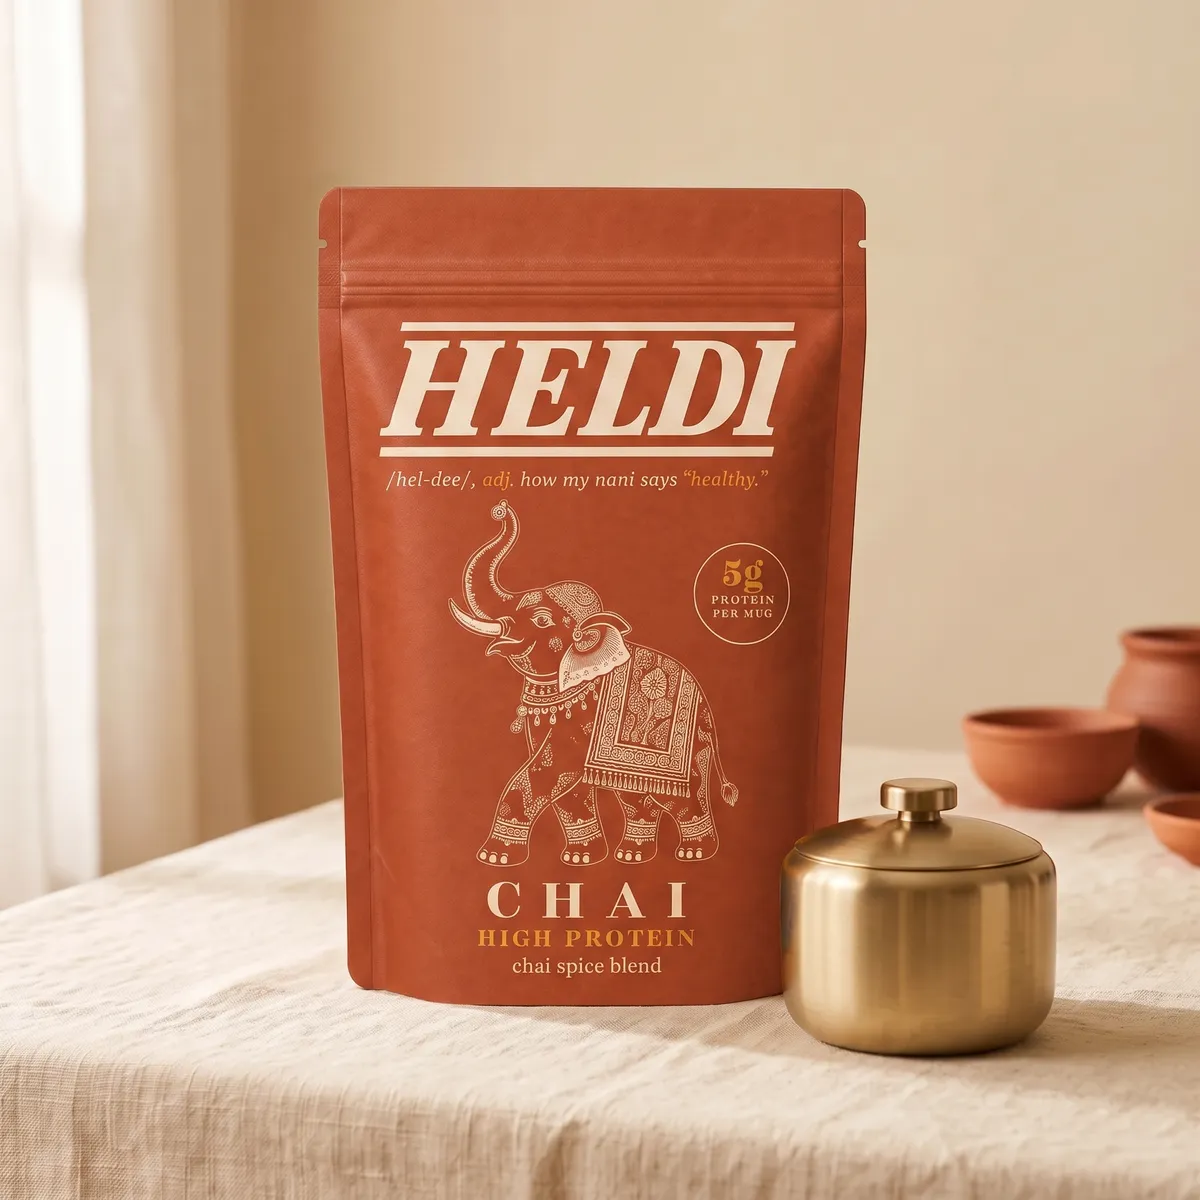
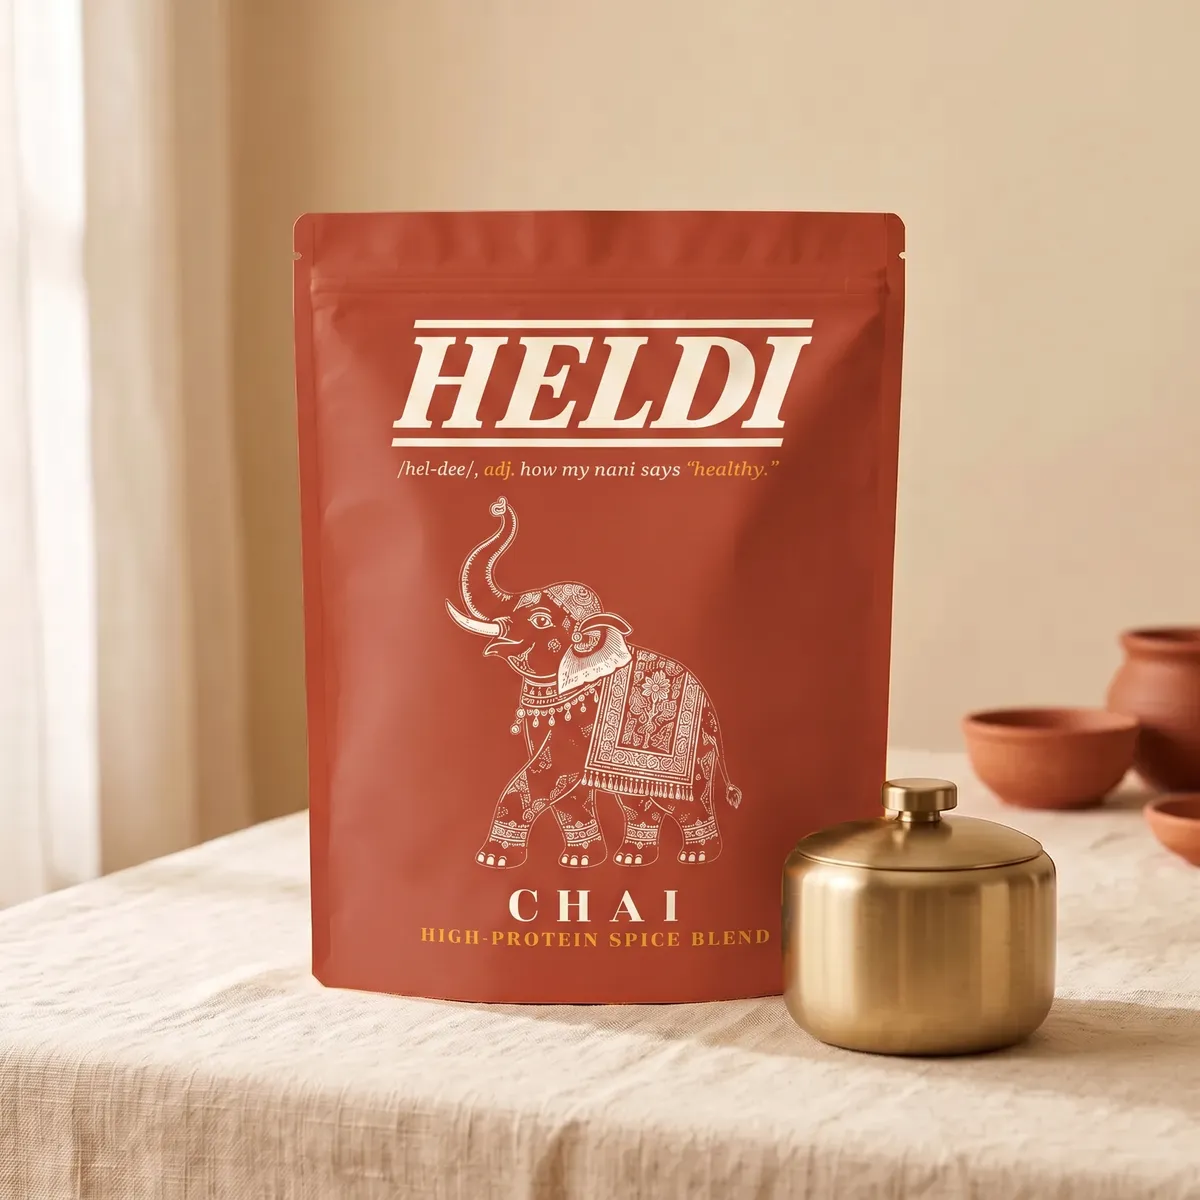
Take the 5g roundel off the Chai shots, and the gluten badge off with it
A review pass found the page arguing with its own photography. The
accordions say Chai's protein figure is not published yet and explain that
at the certified whey purity an 8g spoonful is nearer 4.7g than 5g. Every
gallery shot then showed a pouch printed "5g PROTEIN PER MUG", above the
fold, and those same four URLs go into the schema.org Product.image array.

Regenerated all four shots and the share-card art from the print artwork
with the roundel painted out, so the pack in the pictures says what the
page says. The print files still carry it; re-rendering those is already
in NEXT_STEPS §1b, gated on the serving decision.

Also from the review:

- Dropped the "Gluten free" badge. It is a legally defined claim (under
  20mg/kg, Reg 828/2014), Chai's spices come from a different supplier to
  Khana's, and §1b lists the test as outstanding. Shipping the badge while
  the same commit says the evidence is missing was indefensible.
- Removed the /ways-to-use and /inside-the-pouch links from Chai's
  accordions. Both pages are Khana's: /ways-to-use states "a heaped
  tablespoon adds 10g of protein" (Khana's 12g spoonful) and has no drinks
  method; /inside-the-pouch calls Khana's four ingredients the whole label.
  The /truth link keeps its "which uses Khana's numbers" caveat.
- Fixed the live-mode line, which claimed Khana ships in the pouch
  pictured on the Chai page. It does not; that is the navy Khana pouch.
[…]

Changed region(s): [[0.2467, 0.1542, 0.7708, 0.8633], [0.0, 0.8633, 0.1233, 1.0]]

diff --git a/components/shop/chai-data.ts b/components/shop/chai-data.ts
@@ -61,10 +61,13 @@ export const CHAI_ALLERGENS = "Contains milk (whey and casein).";
 export const CHAI_LEGAL_NAME =
   "Whey protein and casein blend with chai spices and coconut sugar. Food supplement.";
 
-/** Ingredient names in the order the label prints them, with no percentages.
- *  The percentages and the final order are what the two formulations
- *  disagree about; the ingredients themselves are common to both apart from
- *  black pepper, which no label carries. */
+/** The ingredients, largest first, as a plain-English list. This is NOT the
+ *  legal declaration order: that order is one of the things the two
+ *  formulations disagree about (the pack label puts coconut sugar second,
+ *  ahead of the casein; the COGS blend puts casein second and cuts the sugar
+ *  to 10%). The ingredients themselves are common to both apart from black
+ *  pepper, which no label carries. The declaration, with percentages and a
+ *  settled order, publishes with the nutrition table. */
 export const CHAI_INGREDIENT_NAMES = [
   "whey protein isolate",
   "micellar casein",
@@ -105,17 +108,23 @@ export type ChaiPill = {
   height: number;
 };
 
-// Khana's six badges are not reusable here and the difference matters.
-// "No added sugar" is false: Chai is 10 to 15% coconut sugar. "98%
-// lactose-free" is substantiated against Khana's whey certificate at a 12g
-// spoonful and says nothing about a blend carrying micellar casein. "All
-// natural" already draws ASA scrutiny on the pack. The pack's "ORGANIC
-// SPICES" strip is worse: organic is a certified term, Heldi holds no
-// certification, and no organic ground clove exists to buy, so it must not
-// appear on the site at all.
+// Khana's six badges are not reusable here and the difference matters. Every
+// one dropped is dropped because Chai cannot stand it up:
+//  - "No added sugar" is simply false: Chai is 10 to 15% coconut sugar.
+//  - "98% lactose-free" is substantiated against Khana's whey certificate at
+//    a 12g spoonful and says nothing about a blend carrying micellar casein.
+//  - "All natural" already draws ASA scrutiny on the pack.
+//  - "Gluten free" is a legally defined claim (under 20mg/kg, Reg 828/2014).
+//    Chai's spices come from a different supplier to Khana's and no gluten
+//    result exists for this blend, so the badge waits for the test.
+//  - The pack's "ORGANIC SPICES" strip is worse than any of them: organic is
+//    a certified term, Heldi holds no certification, and no organic ground
+//    clove exists to buy, so it must not appear on the site at all.
+// "High in protein" is the one nutrition claim that holds under every
+// candidate blend (see the header note), and vegetarian is a fact about the
+// rennet, not a test result.
 export const CHAI_PILLS: ChaiPill[] = [
   { icon: "/images/pouch-badges/high-protein.png", label: "High protein", width: 256, height: 256 },
-  { icon: "/images/pouch-badges/gluten-free.png", label: "Gluten free", width: 328, height: 225 },
   { icon: "/images/pouch-badges/vegetarian.png", label: "Vegetarian", width: 286, height: 367 }
 ];
 

diff --git a/components/shop/chai-buy-box.tsx b/components/shop/chai-buy-box.tsx
@@ -109,7 +109,9 @@ export function ChaiBuyBox() {
         <p className="pdp__group-label">
           HOW IT GOES IN: <strong>THREE STEPS</strong>
         </p>
-        <ol className="pdp__method">
+        {/* role="list" because list-style:none drops list semantics in
+            Safari/VoiceOver, and the step numbers are CSS counters. */}
+        <ol className="pdp__method" role="list">
           {CHAI_METHOD.map((step) => (
             <li key={step.title} className="pdp__method-step">
               <span className="pdp__method-title">{step.title}</span>
@@ -161,7 +163,7 @@ export function ChaiBuyBox() {
 
         <p className="pdp__promise">
           {mode === "live"
-            ? "Chai is not in the shop yet. Khana is, and the pouch it ships in is the one on this page."
+            ? "Chai is not in the shop yet. Khana is, and it is the same spoonful for the food rather than the drink."
             : `Chai comes after Khana. The waitlist hears first, with ${WAITLIST_OFFER.percent}% off the first order.`}
         </p>
 

diff --git a/components/shop/chai-accordions.tsx b/components/shop/chai-accordions.tsx
@@ -32,11 +32,8 @@ const ACCORDION_ITEMS: PdpAccordionItem[] = [
           The blend is still in trials, and the ingredients list on a food
           supplement is a legal declaration rather than a description, so it
           publishes when the finished blend has been analysed and not before.{" "}
-          <a href="/inside-the-pouch">
-            See where every ingredient comes from
-          </a>
-          , or <a href="/our-story">read our story</a> for why we built it
-          this way.
+          <a href="/our-story">Read our story</a> for why we built it this
+          way.
         </p>
       </>
     )
@@ -54,8 +51,7 @@ const ACCORDION_ITEMS: PdpAccordionItem[] = [
         </p>
         <p>
           It goes into more than chai. Tea, coffee, hot chocolate, warm milk.
-          Anything you would run back down a platform for.{" "}
-          <a href="/ways-to-use">See every way to use Heldi</a>.
+          Anything you would run back down a platform for.
         </p>
       </>
     )

diff --git a/app/globals.css b/app/globals.css
@@ -7036,8 +7036,13 @@ a.living-card__tag:hover {
 }
 
 @media (min-width: 900px) {
+  /* auto-fit rather than a fixed 3, because the buy column is only ~376px
+     just over the breakpoint and three cards there wrap "Stir in a heaped
+     tablespoon" onto five lines. It falls to two cards in the 900-1050 band
+     and settles at three from ~1100px, where they fit. Same trick as
+     .option-grid, and it adds no second structural breakpoint. */
   .pdp__method {
-    grid-template-columns: repeat(3, 1fr);
+    grid-template-columns: repeat(auto-fit, minmax(9.5rem, 1fr));
     gap: 0.75rem;
   }
 

diff --git a/NEXT_STEPS.md b/NEXT_STEPS.md
@@ -62,11 +62,12 @@ provisional but uncontradicted, which is why the site publishes those.
 - [ ] **Is Chai in the next run at all, and is Dahi ahead of it?** HeldiPM's newest decision log (`context/product-gates.md`) still carries the Gate-2 line *"Chai spices not ordered this run"* and the Gate-3 line *"Chai market potentially larger, parked for behaviour not demand"*, and `data/project-status.json` names a two-SKU launch of **Khana and Dahi**, with Chai deferred. The August work resumed Chai development (testing day 16 Aug, print round 13 on 19 Aug, COGS 25 Aug) but no gate entry un-parks it, and the website has never heard of Dahi. The page as shipped does not depend on this answer. Every item below does
 - [ ] **Which formulation.** Two are live and they disagree. The pack artwork (HeldiPM `design/pouch-v2/CHAI-NUTRITION.md`, 18 Aug 2026) is 53.9% whey isolate / 13.5% micellar casein / 15% coconut sugar with a cardamom-led spice block. The COGS model (`lib/cogs/constants.ts`, `chai-current`, 25 Aug 2026) is 53.7% / 18.2% / 10% with a ginger-led block plus **2% black pepper**, which appears on no label anywhere. The print-ready PDFs on disk encode the older one. Nothing else on this list can be answered until one of them wins
 - [ ] **Net weight and mugs per pouch.** The print files say 100g and "around 12 servings"; the COGS model says a 250g pouch; HeldiPM's own pouch-v2 README calls 100g *"a placeholder for the sample"* and asks for a filled pouch to be weighed. The site currently states 100g / 12 mugs, from `CHAI_POUCH_GRAMS` and `CHAI_MUGS_PER_POUCH` in `components/shop/chai-data.ts`, because that is the pack in the product photography. Weigh a filled pouch and change those two constants together
-- [ ] **The serving size, and whether "5g per mug" survives.** Every protein number hangs off the whey purity, and there are three figures in play. The pack table assumes 93.5% because that is what Khana's table implies. The Arla certificate of analysis behind `lib/cogs/constants.ts` says **87.3% as-is**, and at 87.3% an 8g spoonful of the pack formulation gives about **4.7g**, below even the 4.9g failure case the nutrition spec's own sensitivity note describes. If the certificate wins, the serving moves to 9g or the claim softens, and **the front-of-pack roundel, the back-of-pack claims strip, the print PDFs and the five product shots in `public/images/shop/chai-*.webp` all have to be re-rendered**, because every one of them shows "5g PROTEIN PER MUG"
+- [ ] **The serving size, and whether "5g per mug" survives.** Every protein number hangs off the whey purity, and there are three figures in play. The pack table assumes 93.5% because that is what Khana's table implies. The Arla certificate of analysis behind `lib/cogs/constants.ts` says **87.3% as-is**, and at 87.3% an 8g spoonful of the pack formulation gives about **4.7g**, below even the 4.9g failure case the nutrition spec's own sensitivity note describes. If the certificate wins, the serving moves to 9g or the claim softens, and **the front-of-pack roundel, the back-of-pack claims strip and the print PDFs all have to be re-rendered**, because every one of them shows "5g PROTEIN PER MUG". The four site shots in `public/images/shop/chai-*.webp` already have the roundel removed, so they do not publish a figure the page withholds; they will need re-rendering again if the roundel comes back with a settled number
 - [ ] **The price ladder.** There is no agreed Chai price anywhere. `lib/cogs/constants.ts` carries £35 / £65 / £95 flagged `TIER_PRICES_PROVISIONAL.chai = true` and says outright *"Chai has no agreed pricing of its own and mirrors Khana for now"*; the only Chai price ever named is a **£20 entry point** for the 100g pouch in `data/project-status.json`, and it is recorded as parked. Note the COGS Khana ladder (£35/£65/£95) does not match the locked one in `lib/pricing.ts` (£35/£70/£105), so "mirror Khana" would mirror an error
 - [ ] **Does Chai get a Sample?** Khana's Sample is a real £5 SKU with its own variant, servings constant and gallery slot. Chai has no sample SKU, price or fill anywhere. A sachet shot is already rendered and sitting in the gitignored `public/images/originals/pre-webp/shop/chai-sample.png` if the answer is yes
 - [ ] **Do Chai pouches earn the free jar and the masala dabba, the 20% waitlist code, and the 10% family codes?** Today they would silently earn **nothing**: `khanaPouchCount`, `giftingEligiblePenceForLines` and `waitlistEligiblePenceForLines` in `lib/commerce/catalog.ts` all key off Khana's SKUs
 - [ ] **"Organic".** The printed back-of-pack strip says `ORGANIC SPICES`. Organic is a certified term in the UK, Heldi holds no certification, and `lib/cogs/constants.ts` records that no organic ground clove exists to buy, so one Chai spice cannot be organic even in principle. It is deliberately absent from the website; it has to come off the pack or the certification has to happen
+- [ ] **"England" or "the UK".** Khana's "What's inside" accordion says the blend is *"Blended and packed in England"*; the Chai pack footer and the Chai page both say *"the UK"*. Both can be true and the UK is the safer superset, but two products should not describe the same co-packer two ways. Pick one and make Khana match
 - [ ] **The casein line in Our story.** `app/our-story/page.tsx` lists casein in the trial menu as *"turned dal to cement"*, and Chai is a whey-and-casein blend. True of dal and not of hot milk, but a reader on both pages will notice. Decide whether that line gains a clause
 
 ### Product facts the site cannot publish until the blend is signed off
@@ -80,7 +81,7 @@ Getting them wrong on pack is a false declaration under FIC Regulation
 - [ ] The **ingredients list with percentages**, in final descending order. The names are already on the page; only the numbers and the order are withheld
 - [ ] The **protein per serving**, and with it a Chai equivalent of the "10 vs 10.4" rounding rule in BRAND.md §5
 - [ ] The **amino acid profile**. None exists in either repo. Without it the Chai page cannot carry Khana's "Nutrition & amino acids" modal or its complete-protein claim
-- [ ] **Gluten free**: the site shows the badge, on the same footing as Khana's. It is a legally defined claim (under 20ppm) and Chai's spices come from a different supplier, so it needs its own test result
+- [ ] **A gluten result.** "Gluten free" is a legally defined claim (under 20mg/kg, Reg 828/2014) and Chai's spices come from a different supplier to Khana's, so the badge is deliberately absent from the Chai page until this blend is tested. Add it to `CHAI_PILLS` in `components/shop/chai-data.ts` when the result lands
 - [ ] **A lactose figure.** Khana's "98% lactose-free" is substantiated against Khana's whey certificate at a 12g spoonful and says nothing about a blend carrying micellar casein. The Chai page deliberately declines to borrow it
 - [ ] **Shelf life.** Khana publishes an 18-month best-before in two places; HeldiPM's Gate 4 records *"shelf-life 9-12 months usable"* and Chai has no stability data at all. The Chai page says "a best-before on the base" with no number until it does
 
@@ -96,19 +97,19 @@ Nothing here is needed for the page as it stands. It is the list of what the
 - [ ] Add the `AggregateOffer` block to the Chai product schema in `app/shop/chai/page.tsx`, in the same `COMMERCE_MODE === "live"` shape `/shop` uses
 - [ ] Decide whether `GiftingBand` belongs on the Chai page. It is live-mode only and its copy is written around single pouches and 2-packs of Khana
 - [ ] The statutory block on the homepage and `/faq` passes Khana's 12g portion and "Contains milk (whey)". With two products on sale it needs a form that covers both, or the block moves onto each product's own surface
-- [ ] Nav: `/shop/chai` is reachable from the sitemap, from Our story, and from the Khana page copy, but there is no "Shop" submenu. Two buyable products probably means a `/shop` listing page or a nav split (PLAYBOOK.md has recipes for both, and neither is free: `SubpageNav` keeps duplicated mobile and desktop link lists that must change together)
+- [ ] Nav: `/shop/chai` is reachable from the sitemap and from Our story, and it links out to `/shop`, but nothing on `/shop` links back to it and there is no "Shop" submenu. Add at least a link from the Khana page. Two buyable products probably means a `/shop` listing page or a nav split (PLAYBOOK.md has recipes for both, and neither is free: `SubpageNav` keeps duplicated mobile and desktop link lists that must change together)
 - [ ] `public/llms.txt` describes a one-product line ("One spoonful adds about 10g of complete protein") and would misdescribe a two-product range
 
 ### Shopify
 
 - [ ] Create the **Heldi Chai** product with variants mirroring whatever `lib/pricing.ts` ends up carrying, SKUs in the `HELDI-CHAI-*` shape, and the images from `public/images/shop/chai-*.webp`. Then replace the placeholder GIDs the same way Khana's were on 16 Jul 2026
-- [ ] Three **archived** Chai products still sit in the store from the pre-bundle catalogue (`heldi-for-chai` at £20, `heldi-chai-tadka-sample` at £4, and the trio SKUs). Leave them archived or delete them, but do not reuse their GIDs: they are on the old one-variant model
+- [ ] Two **archived** Chai products still sit in the store from the pre-bundle catalogue: `heldi-for-chai` at £20 and `heldi-chai-tadka-sample` at £4 (the archived trio SKUs alongside them are not Chai-specific). Leave them archived or delete them, but do not reuse their GIDs: they are on the old one-variant model
 - [ ] Add Chai to the shipping profile and the VAT setting alongside Khana
 - [ ] Klaviyo's catalog is still empty (§5), so a second product is one more reason to verify that integration rather than read the metric list as proof of it
 
 ### Assets
 
-- [x] Product photography for the terracotta v2 pouch: `chai-1`, `chai-pouch-solo`, `chai-bundle-2` and `chai-bundle-3` in `public/images/shop/`, all 1200×1200 WebP and all under 140KB. Generated 1 Sep 2026 from the HeldiPM round-13 print artwork as the reference, in the same scene as the Khana shots. Masters in the gitignored `public/images/originals/pre-webp/shop/`
+- [x] Product photography for the terracotta v2 pouch: `chai-1`, `chai-pouch-solo`, `chai-bundle-2` and `chai-bundle-3` in `public/images/shop/`, all 1200×1200 WebP and all under 140KB. Generated 1 Sep 2026 from the HeldiPM round-13 print artwork as the reference, in the same scene as the Khana shots. **The "5g PROTEIN PER MUG" roundel is deliberately absent from the pouch in these shots**, because the page withholds that figure and the images are indexed as `Product.image`; the print artwork still carries it. Masters in the gitignored `public/images/originals/pre-webp/shop/`
 - [x] Share card art: `assets/og/pouch-chai.png`, wired through the new `OG_ART_FILES` map in `components/og/card.tsx` so a third SKU cannot silently ship Khana's pouch
 - [ ] **The two product pages now show two different pack generations.** Chai is the v2 terracotta pouch; Khana's shots are still the older gold pouch with "Same Recipes Same Taste More Protein". Reshoot Khana on the navy v2 pouch, or the range looks like two brands
 - [ ] All of it is AI-generated, like Khana's. Replace with real photography when the physical product exists
